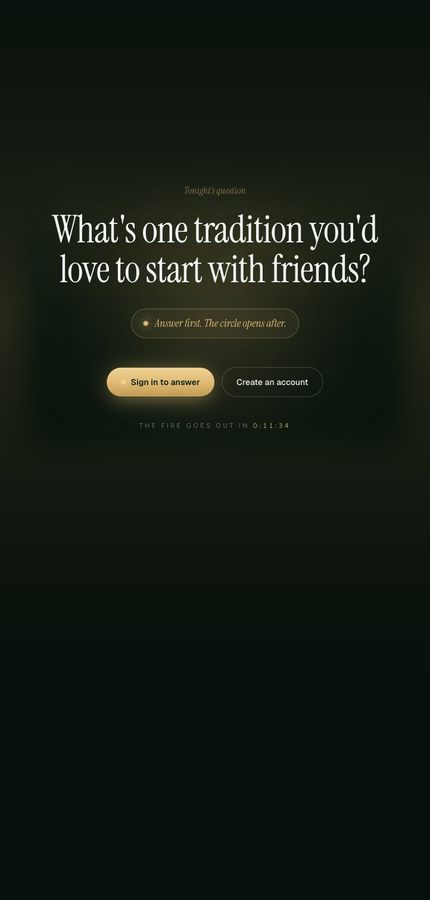
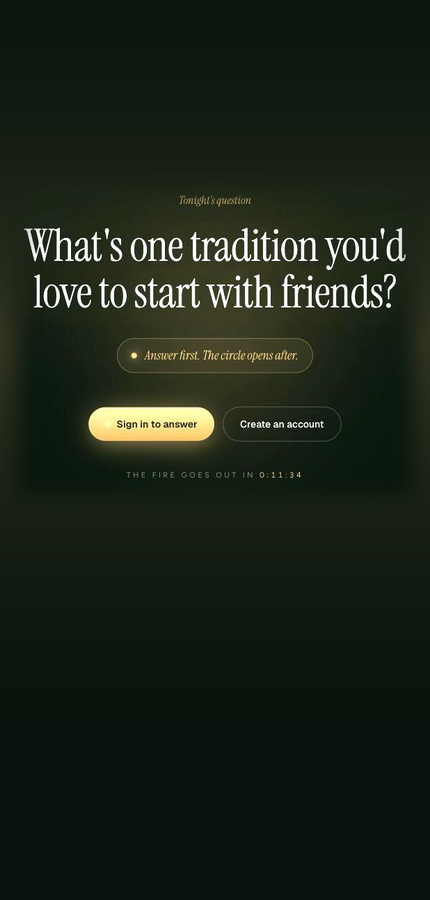
fix: rebuild the hero composition with eyes on the rendered page
First round built blind read as rough: phones nearly as tall as the
browser, both floating cards buried behind them with clipped text, the
left phone covering the traffic lights, the TSP phone an empty black
slab, the island sitting on Sage's header.

This round ran against the live dev server, screenshotting after each
change:

- Phones shrunk to accents (~55% of window height), tucked low against
  the browser corners, never touching the chrome
- PhoneFrame gains a status-bar inset in the app's own background colour
  so the dynamic island sits over empty space, plus a light-screen home
  indicator variant for Sage
- TSP asset regenerated: brighter, content ~20% larger, higher focus
- Live card pinned above the window's top-right; Built-with card at the
  lower-left corner overlap, both z-30 and never clipped
- Work grid thumbnails get per-product object positions so the TSP card
  shows its content band instead of empty gradient
- Stage bloom enlarged past the device silhouette; its core was hiding
  behind the opaque window and only the dim falloff was visible
- Removed the duplicated fixed-scope line under the hero buttons

Changed region(s): [[0.0605, 0.1867, 0.9372, 0.5289]]

diff --git a/src/components/ui/DeviceFrames.tsx b/src/components/ui/DeviceFrames.tsx
@@ -4,44 +4,50 @@ import Image from 'next/image';
  * The two device mockups used on the landing page.
  *
  * Everything about the frames is CSS: gradient metal edge, black bezel,
- * dynamic island, home indicator, glass highlight, browser chrome. The
- * screenshots underneath are plain files in public/products, so refreshing
- * one never touches this file.
+ * dynamic island, home indicator, browser chrome. The screenshots are plain
+ * files in public/products, so refreshing one never touches this file.
  */
 
 export function PhoneFrame({
   src,
   alt,
+  screenBg,
+  light = false,
   className = '',
-  priority = false,
 }: {
   src: string;
   alt: string;
+  /** The app's own background colour, shown behind the status bar and any
+   *  gap below the screenshot, so the frame reads as the app running. */
+  screenBg: string;
+  /** Light-screened apps need a dark home indicator. */
+  light?: boolean;
   className?: string;
-  priority?: boolean;
 }) {
   return (
     <div className={className}>
-      {/* metal edge */}
-      <div className="rounded-[2.7rem] bg-gradient-to-b from-[#3b4661] via-[#1c2538] to-[#0b1220] p-[2.5px] shadow-[0_50px_100px_-30px_rgba(0,0,0,0.95),0_0_0_1px_rgba(255,255,255,0.05)]">
-        {/* bezel */}
-        <div className="rounded-[2.55rem] bg-[#04060c] p-[7px]">
-          {/* screen */}
-          <div className="relative aspect-[10/21] overflow-hidden rounded-[2rem] bg-ink-3">
+      <div className="rounded-[2.2rem] bg-gradient-to-b from-[#3b4661] via-[#1c2538] to-[#0b1220] p-[2px] shadow-[0_40px_80px_-24px_rgba(0,0,0,0.95),0_0_0_1px_rgba(255,255,255,0.05)]">
+        <div className="rounded-[calc(2.2rem-2px)] bg-[#04060c] p-[6px]">
+          <div
+            className="relative aspect-[10/21] overflow-hidden rounded-[1.7rem]"
+            style={{ backgroundColor: screenBg }}
+          >
+            {/* status-bar breathing room, so the island never sits on content */}
+            <div className="h-[26px]" />
             <Image
               src={src}
               alt={alt}
-              fill
-              sizes="220px"
-              priority={priority}
-              className="object-cover object-top"
+              width={430}
+              height={900}
+              className="h-auto w-full"
             />
-            {/* dynamic island */}
-            <div className="absolute top-[9px] left-1/2 h-[16px] w-[64px] -translate-x-1/2 rounded-full bg-[#04060c]" />
-            {/* home indicator */}
-            <div className="absolute bottom-[7px] left-1/2 h-[4px] w-[84px] -translate-x-1/2 rounded-full bg-white/25" />
-            {/* glass */}
-            <div className="pointer-events-none absolute inset-0 rounded-[2rem] shadow-[inset_0_1px_1px_rgba(255,255,255,0.07),inset_0_0_0_1px_rgba(255,255,255,0.03)]" />
+            <div className="absolute top-[7px] left-1/2 h-[14px] w-[54px] -translate-x-1/2 rounded-full bg-[#04060c]" />
+            <div
+              className={`absolute bottom-[6px] left-1/2 h-[3px] w-[72px] -translate-x-1/2 rounded-full ${
+                light ? 'bg-black/25' : 'bg-white/25'
+              }`}
+            />
+            <div className="pointer-events-none absolute inset-0 rounded-[1.7rem] shadow-[inset_0_1px_1px_rgba(255,255,255,0.07),inset_0_0_0_1px_rgba(255,255,255,0.03)]" />
           </div>
         </div>
       </div>
@@ -64,10 +70,8 @@ export function BrowserFrame({
 }) {
   return (
     <div className={className}>
-      {/* gradient hairline edge */}
       <div className="rounded-2xl bg-gradient-to-b from-[#33405c] via-[#1a2438] to-[#0b1220] p-px shadow-[0_60px_120px_-35px_rgba(0,0,0,0.95)]">
         <div className="overflow-hidden rounded-[calc(1rem-1px)] bg-ink-2">
-          {/* chrome */}
           <div className="relative flex items-center border-b border-white/[0.05] bg-white/[0.025] px-4 py-2.5 shadow-[inset_0_1px_0_rgba(255,255,255,0.05)]">
             <div className="flex items-center gap-[7px]">
               <span className="h-[11px] w-[11px] rounded-full bg-[#ff5f57] shadow-[inset_0_0_1px_rgba(0,0,0,0.35)]" />

diff --git a/src/components/ui/DeviceShowcase.tsx b/src/components/ui/DeviceShowcase.tsx
@@ -1,9 +1,10 @@
 import { BrowserFrame, PhoneFrame } from './DeviceFrames';
 
 /**
- * The hero centrepiece: Chip in a browser window, Sage and The Social
- * Project in phone frames tucked slightly behind its corners, all seated on
- * a blue-violet bloom so the group reads as one object on a lit stage.
+ * The hero centrepiece. Proportions matter more than anything here: the
+ * browser is the subject, the phones are accents tucked low against its
+ * corners, and nothing may ever cover the browser chrome or the floating
+ * cards. Sizes were set by looking at the rendered page, not arithmetic.
  */
 export function DeviceShowcase() {
   return (
@@ -11,14 +12,16 @@ export function DeviceShowcase() {
       {/* stage bloom */}
       <div
         aria-hidden="true"
-        className="absolute -inset-x-24 top-1/4 -bottom-24 -z-10 bg-[radial-gradient(55%_65%_at_50%_80%,rgba(47,125,255,0.30),rgba(122,86,255,0.14)_50%,transparent_78%)] blur-2xl"
+        className="absolute inset-x-[-9rem] top-[6%] bottom-[-8rem] -z-10 bg-[radial-gradient(68%_72%_at_50%_58%,rgba(47,125,255,0.5),rgba(122,86,255,0.26)_50%,transparent_76%)] blur-2xl"
       />
 
       <div className="flex items-end justify-center">
         <PhoneFrame
           src="/products/sage.png"
           alt="Sage, an adaptive learning app, on a phone"
-          className="z-20 -mr-6 mb-3 w-[126px] rotate-[-5deg] sm:-mr-10 sm:w-[168px] lg:-mr-14 lg:w-[192px]"
+          screenBg="#f5f3ef"
+          light
+          className="z-20 -mr-7 w-[96px] translate-y-5 rotate-[-6deg] sm:-mr-10 sm:w-[124px] lg:-mr-12 lg:w-[148px]"
         />
 
         <BrowserFrame
@@ -26,20 +29,21 @@ export function DeviceShowcase() {
           alt="Chip, a poker learning app, in a browser window"
           url="playwithchip.com"
           priority
-          className="z-10 hidden min-w-0 max-w-2xl flex-1 sm:block"
+          className="z-10 min-w-0 max-w-3xl flex-1"
         />
 
         <PhoneFrame
           src="/products/tsp.png"
           alt="The Social Project, a nightly question app, on a phone"
-          className="z-20 -ml-6 mb-3 w-[126px] rotate-[5deg] sm:-ml-10 sm:w-[168px] lg:-ml-14 lg:w-[192px]"
+          screenBg="#07100b"
+          className="z-20 -ml-7 w-[96px] translate-y-5 rotate-[6deg] sm:-ml-10 sm:w-[124px] lg:-ml-12 lg:w-[148px]"
         />
       </div>
 
-      {/* contact shadow, so the group sits rather than floats */}
+      {/* contact shadow */}
       <div
         aria-hidden="true"
-        className="absolute inset-x-16 -bottom-8 -z-10 h-16 rounded-[100%] bg-black/70 blur-2xl"
+        className="absolute inset-x-20 -bottom-9 -z-10 h-14 rounded-[100%] bg-black/70 blur-2xl"
       />
     </div>
   );

diff --git a/src/components/sections/WorkSection.tsx b/src/components/sections/WorkSection.tsx
@@ -3,10 +3,11 @@ import { Reveal } from '@/components/ui/Reveal';
 import { products } from '@/lib/site';
 import { sections } from '@/lib/content';
 
-const shots: Record<string, string> = {
-  Chip: '/products/chip.png',
-  Sage: '/products/sage.png',
-  'The Social Project': '/products/tsp.png',
+const shots: Record<string, { src: string; position: string }> = {
+  Chip: { src: '/products/chip.png', position: 'object-top' },
+  Sage: { src: '/products/sage.png', position: 'object-top' },
+  // portrait composition: the content band sits ~38% down the image
+  'The Social Project': { src: '/products/tsp.png', position: 'object-[center_36%]' },
 };
 
 export function WorkSection() {
@@ -35,11 +36,11 @@ export function WorkSection() {
                 >
                   <div className="relative h-44 overflow-hidden border-b border-line bg-ink-3">
                     <Image
-                      src={shots[product.name] ?? '/products/chip.png'}
+                      src={shots[product.name]?.src ?? '/products/chip.png'}
                       alt={`${product.name} screenshot`}
                       width={1440}
                       height={787}
-                      className="h-full w-full object-cover object-top transition-transform duration-700 group-hover:scale-[1.03]"
+                      className={`h-full w-full object-cover ${shots[product.name]?.position ?? 'object-top'} transition-transform duration-700 group-hover:scale-[1.03]`}
                     />
                   </div>
 

diff --git a/src/components/sections/HeroSection.tsx b/src/components/sections/HeroSection.tsx
@@ -47,13 +47,10 @@ export function HeroSection() {
               Send an email
             </a>
           </div>
-          <p className="mt-5 text-sm text-mute-dim">
-            Fixed scope. Fixed price. You own everything at the end.
-          </p>
         </Reveal>
       </div>
 
-      <Reveal delay={480} className="relative z-10 mt-20 lg:mt-24">
+      <Reveal delay={480} className="relative z-10 mt-14 lg:mt-16">
         <div className="relative mx-auto max-w-4xl">
           <DeviceShowcase />
 
@@ -61,12 +58,12 @@ export function HeroSection() {
             label="Live"
             value="playwithchip.com"
             accent
-            className="absolute -top-6 right-0 hidden lg:block"
+            className="absolute -top-5 right-[7%] z-30 hidden lg:block"
           />
           <FloatingCard
             label="Built with"
             value="Next.js · Supabase · AWS"
-            className="absolute bottom-10 -left-10 hidden lg:block"
+            className="absolute -bottom-6 left-[15%] z-30 hidden lg:block"
           />
         </div>
       </Reveal>
